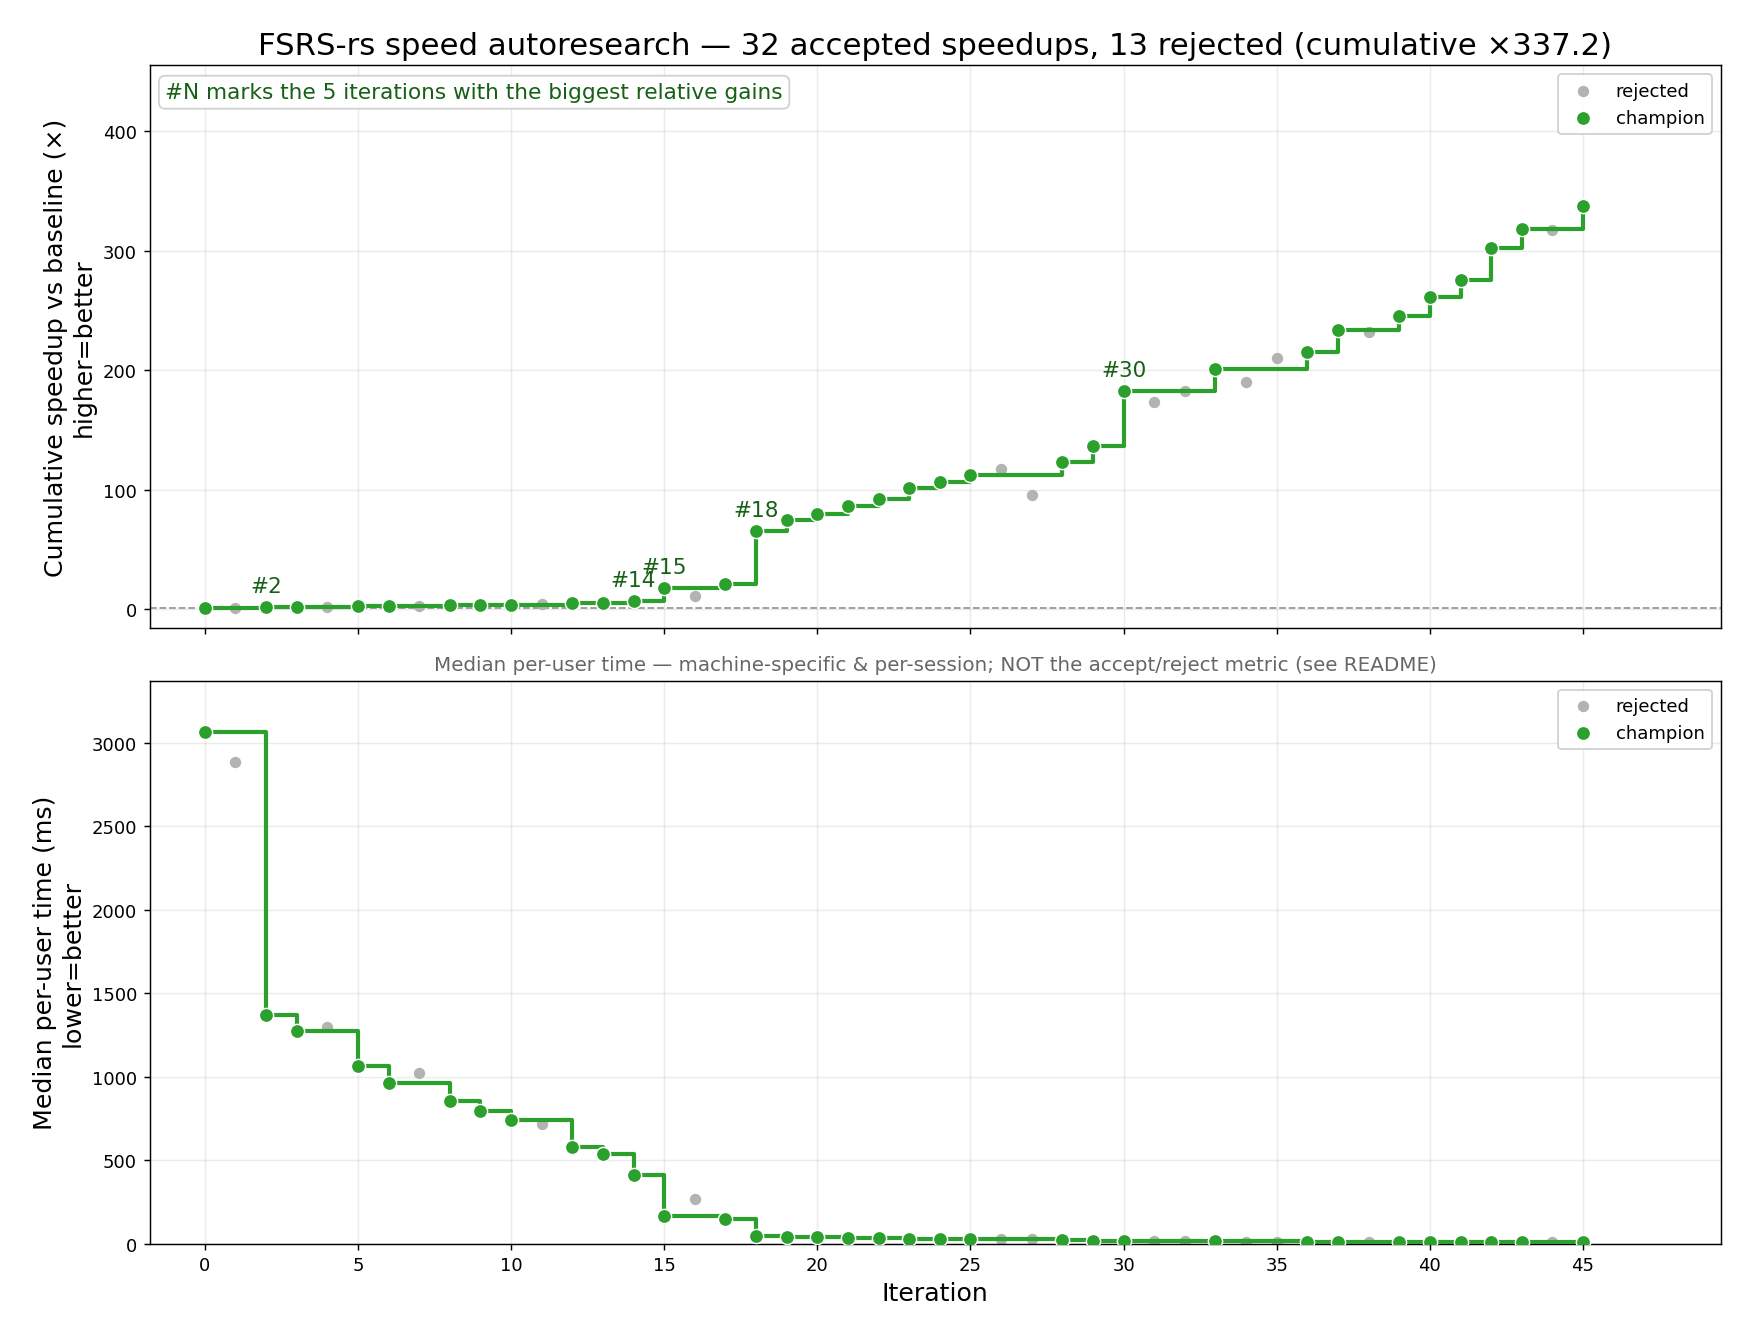
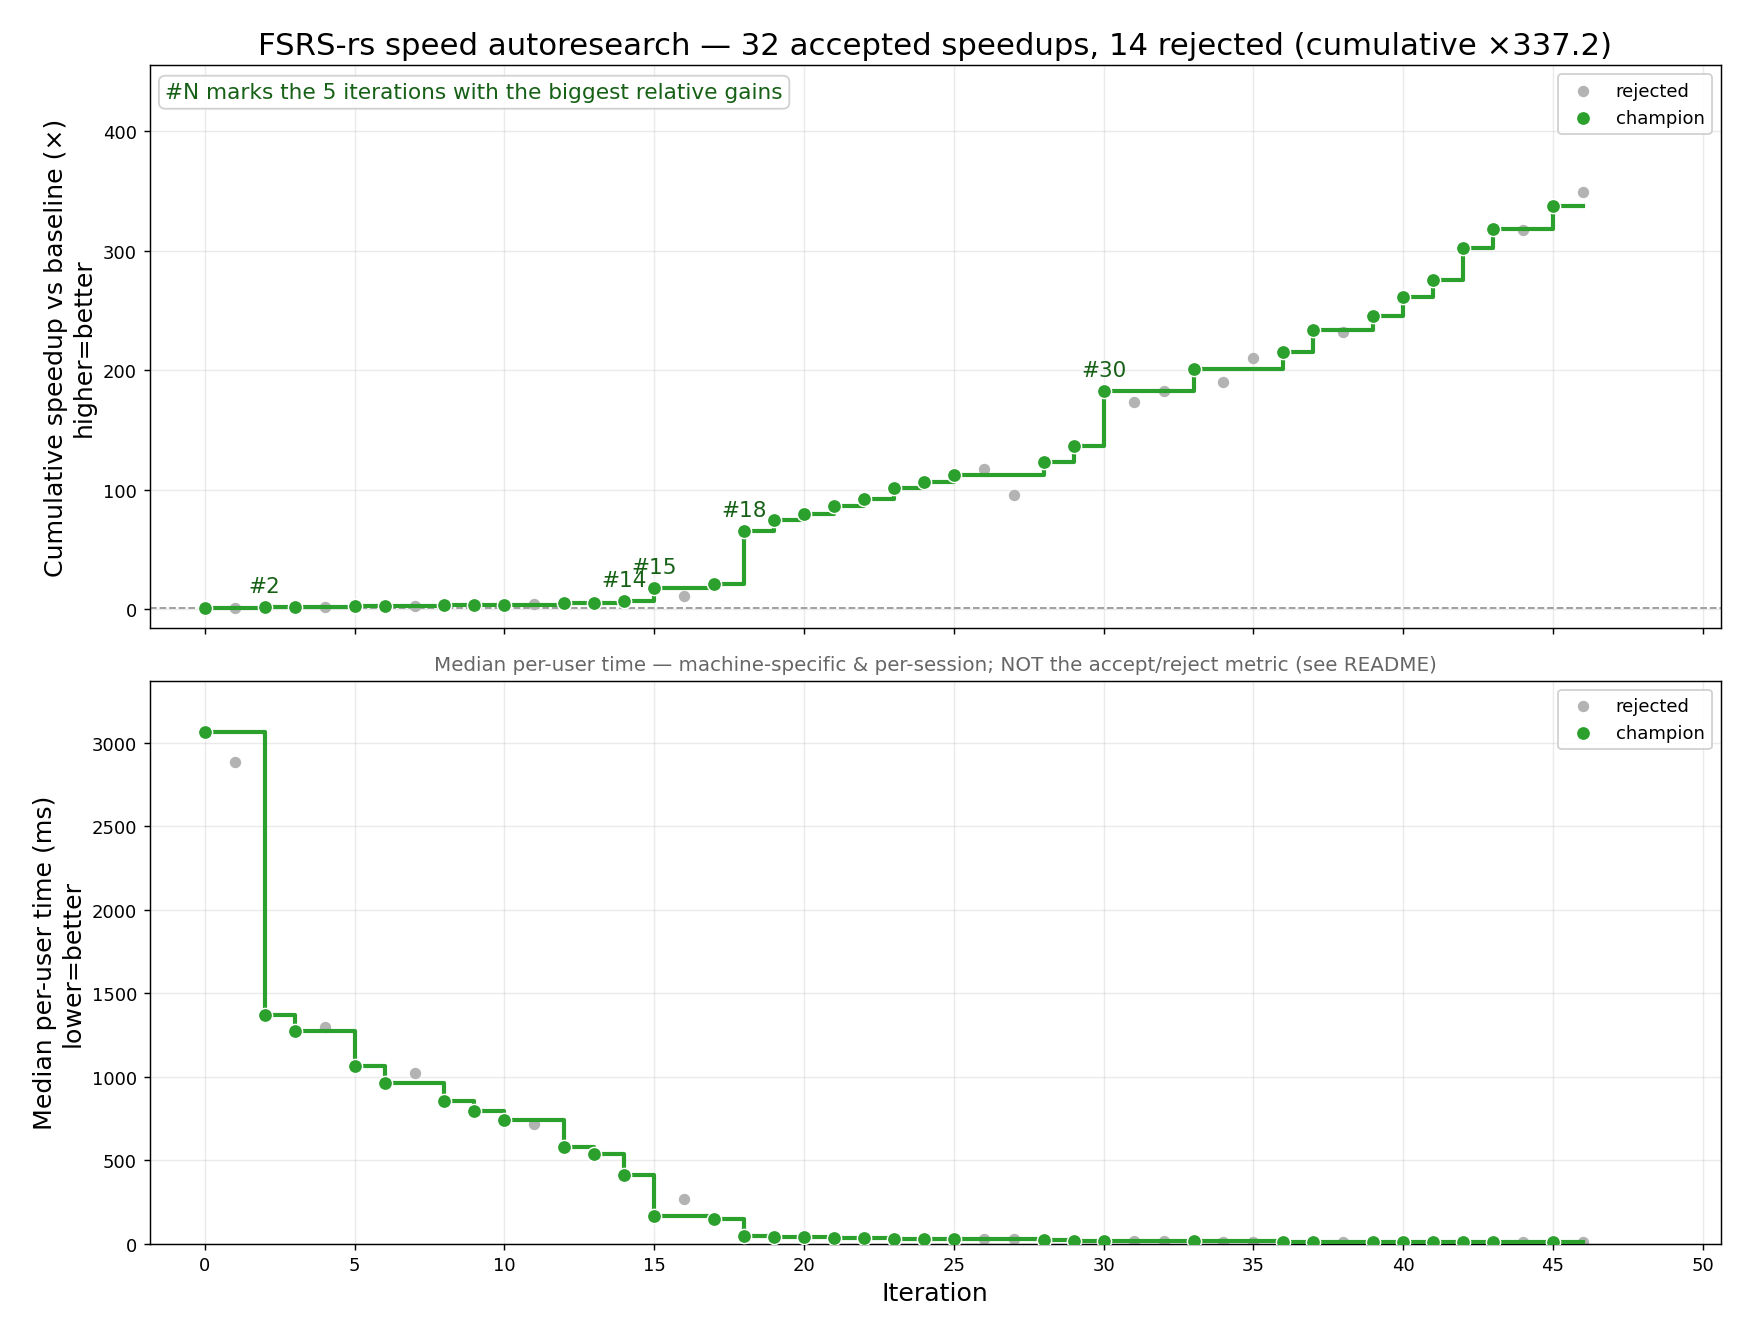
iter46 REJECTED (x1.035, kept for stacking): cache cheap forward values for the backward; backward ordered so values die early
Bit-for-bit (0/50). n=1 ~+3.6% vs iter45 but paired median-of-3 x1.035 < 1.05.
Curve8 caches m1/decay1/factor1/b1; Stab8 caches he/em1/abc/base (partial
products of sinc); curve8_bwd_acc forms the input-state adjoint sums as soon
as the curve terms are known. Kept in the tree to stack with the next change.

diff --git a/fsrs-rs/src/analytic.rs b/fsrs-rs/src/analytic.rs
@@ -688,6 +688,10 @@ struct Curve8 {
     q1: f32x8,
     e1: f32x8,
     p35: f32x8,
+    m1: f32x8,
+    decay1: f32x8,
+    factor1: f32x8,
+    b1: f32x8,
     b2: f32x8,
     r2: f32x8,
     sig: f32x8,
@@ -732,14 +736,18 @@ fn curve8_fwd_into<const FAST: bool>(
     let p35 = exp2_8_in_range::<FAST>((sp(33) - k(0.3)) * ln_sf); // ln_sf, ln_s are log2
     c.p35 = p35;
     let m1 = sp(23) * p35;
+    c.m1 = m1;
     let dm1 = clamp8(m1, 0.01, 0.95);
     let decay1 = k(0.0) - dm1;
+    c.decay1 = decay1;
     let q1 = k(wc.ln_w27) / decay1;
     c.q1 = q1;
     let e1 = exp8_in_range::<FAST>(q1.fast_min(k(60.0)));
     c.e1 = e1;
     let factor1 = e1 - k(1.0);
+    c.factor1 = factor1;
     let b1 = a * factor1 + k(1.0);
+    c.b1 = b1;
     let ln_b1 = log2_8(b1);
     c.ln_b1 = ln_b1;
     let r1 = exp2_8_in_range::<FAST>(decay1 * ln_b1);
@@ -781,14 +789,23 @@ fn curve8_bwd(
     w: &[f32], c: &Curve8, s: f32x8, sf: f32x8, d: f32x8, g_out: f32x8, g_r1_extra: f32x8,
     gw: &mut [f32x8; 34], wc: &WConsts,
 ) -> (f32x8, f32x8, f32x8) {
+    let z = f32x8::splat(0.0);
+    curve8_bwd_acc::<false>(w, c, s, sf, d, g_out, g_r1_extra, gw, wc, (z, z, z))
+}
+
+/// curve8_bwd; with ACC, returns (acc.0 + g_s, acc.1 + g_sf, acc.2 + g_d) instead, each sum formed
+/// as soon as its curve term is known. The code is ordered so values die early: the kernel's basic
+/// blocks are far longer than LLVM's scheduling window, so the source order decides how many
+/// values are live (and spilled) at once.
+#[allow(clippy::too_many_arguments)]
+#[inline(always)]
+fn curve8_bwd_acc<const ACC: bool>(
+    w: &[f32], c: &Curve8, s: f32x8, sf: f32x8, d: f32x8, g_out: f32x8, g_r1_extra: f32x8,
+    gw: &mut [f32x8; 34], wc: &WConsts, acc: (f32x8, f32x8, f32x8),
+) -> (f32x8, f32x8, f32x8) {
     let sp = |i: usize| f32x8::splat(w[i]);
     let k = f32x8::splat;
     let z = k(0.0);
-    // Cheap forward values recomputed with curve8_fwd's exact ops (smaller per-step cache).
-    let m1 = sp(23) * c.p35;
-    let decay1 = k(0.0) - clamp8(m1, 0.01, 0.95);
-    let factor1 = c.e1 - k(1.0);
-    let b1 = c.a * factor1 + k(1.0);
     let g_ret = g_out * k(1.0 - 2e-5);
     // ret = r1*(1-sig) + r2*sig. r1 also feeds the short-trace stability update (reads r1, not
     // mixed R) -> g_r1_extra.
@@ -802,35 +819,43 @@ fn curve8_bwd(
     gw[30] += g_z * c.ln_s;
     gw[31] += g_z * (d - k(5.0));
     let mut g_d = g_z * (sp(31) - k(0.5));
+    let gz30 = g_z * sp(30); // the ln(s) and ln(sf) terms of g_s / g_sf (below)
+    let gz29 = g_z * sp(29);
     // r2 = b2^decay2, b2 = q2 + 1 with q2 = (t/s)*factor2*ex34 (ex34 = exp((d-5)*(d_decay-0.3)),
     // factor2 = p28 - 1, p28 = base2[w26]^(1/decay2), decay2 = -clamp(w24)). q2 is a product, so
     // the adjoints of ln(t/s), ln(ex34) and ln(factor2) are all x2 = g_b2*q2.
     let v2 = g_r2 * c.r2; // adjoint of ln(r2) = decay2 * ln(b2)
+    // w26 and w24 enter r2 only through weight-only factors: slot 26 holds sum(x2), slot 28 the
+    // direct decay2 term; finish_gw forms gw[26] and gw[24] from them.
+    gw[28] += v2 * c.ln_b2;
     let x2 = v2 * wc.decay2 / c.b2 * c.q2;
     g_d += x2 * (sp(32) - k(0.3));
     gw[32] += x2 * (d - k(5.0));
-    // w26 and w24 enter r2 only through weight-only factors: slot 26 holds sum(x2), slot 28 the
-    // direct decay2 term; finish_gw forms gw[26] and gw[24] from them.
     gw[26] += x2;
-    gw[28] += v2 * c.ln_b2;
+    // d/ds of every ln(s) term, over ONE division.
+    let g_s = (gz30 - x2) / s;
+    let g_s = if ACC { acc.0 + g_s } else { g_s };
+    let g_d = if ACC { acc.2 + g_d } else { g_d };
     // r1 = b1^decay1, b1 = a*factor1 + 1, a = t/sf, factor1 = e1 - 1, e1 = exp(min(q1, 60)),
     // q1 = ln(base1[w25]) / decay1, decay1 = -clamp(w23 * p35), p35 = sf^(s_decay1[w33]-0.3).
+    let decay1 = c.decay1;
     let v1 = g_r1 * c.r1; // adjoint of ln(r1) = decay1 * ln(b1)
     let mut g_decay1 = v1 * c.ln_b1 * k(LN2); // ln(b1) = log2(b1) * ln2
-    let g_b1_a = v1 * decay1 / b1 * c.a; // adjoint of b1, times a
-    let g_a_a = g_b1_a * factor1; // adjoint of ln(a)
+    let g_b1_a = v1 * decay1 / c.b1 * c.a; // adjoint of b1, times a
+    let g_a_a = g_b1_a * c.factor1; // adjoint of ln(a)
     let g_q1 = c.q1.cmp_lt(k(60.0)).blend(g_b1_a * c.e1, z);
     let g_lw27 = g_q1 / decay1;
     g_decay1 -= g_lw27 * c.q1; // d(q1)/d(decay1) = -q1/decay1
     gw[25] += g_lw27; // ln_base1 = ln(w[25]); finish_gw applies 1/w25
+    let m1 = c.m1;
     let g_m1 = (m1.cmp_gt(k(0.01)) & m1.cmp_lt(k(0.95))).blend(z - g_decay1, z);
     let u = g_m1 * c.p35;
     gw[23] += u;
     let y = u * sp(23); // adjoint of ln(p35)
     gw[33] += y * c.ln_sf;
-    // d/ds and d/dsf of every ln(s)/ln(sf) term, over ONE division each.
-    let g_s = (g_z * sp(30) - x2) / s;
-    let g_sf = (g_z * sp(29) + y * (sp(33) - k(0.3)) - g_a_a) / sf;
+    // d/dsf of every ln(sf) term, over ONE division.
+    let g_sf = (gz29 + y * (sp(33) - k(0.3)) - g_a_a) / sf;
+    let g_sf = if ACC { acc.1 + g_sf } else { g_sf };
     (g_s, g_sf, g_d)
 }
 
@@ -851,6 +876,11 @@ struct Stab8 {
     sinc: f32x8,
     cc: f32x8,
     expr: f32x8,
+    /// hard_easy8, expr - 1, aa * bb * cc and aa * bb * cc * (expr - 1): partial products of sinc.
+    he: f32x8,
+    em1: f32x8,
+    abc: f32x8,
+    base: f32x8,
     pr: f32x8,
     qbase: f32x8,
     ln_ls1: f32x8,
@@ -871,13 +901,19 @@ fn stab8_fwd_into<const FAST: bool>(
     let k = f32x8::splat;
     let one = k(1.0);
     let he = hard_easy8(w, rating, start);
+    c.he = he;
     let bb = k(11.0) - last_d;
     let cc = exp2_8_in_range::<FAST>(k(-w[start + 1]) * ln_ls);
     c.cc = cc;
     let expr = exp2_8_in_range::<FAST>((one - r) * k(wc.l2e[start + 2]));
     c.expr = expr;
-    let aa8 = k(aa);
-    let sinc = aa8 * bb * cc * (expr - one) * he + one;
+    let em1 = expr - one;
+    c.em1 = em1;
+    let abc = k(aa) * bb * cc;
+    c.abc = abc;
+    let base = abc * em1;
+    c.base = base;
+    let sinc = base * he + one; // = aa * bb * cc * (expr - 1) * he + 1
     c.sinc = sinc;
     let ls_sinc = last_s * sinc;
     // sinc >= 1, so ls_sinc >= last_s >= pls = min(last_s, nsf_fail): on a success lane the new
@@ -911,17 +947,16 @@ fn stab8_fwd_into<const FAST: bool>(
 #[allow(clippy::too_many_arguments)]
 #[inline(always)]
 fn stab8_bwd(
-    w: &[f32], c: &Stab8, last_s: f32x8, last_d: f32x8, r: f32x8, rating: f32x8, start: usize,
+    w: &[f32], c: &Stab8, last_s: f32x8, r: f32x8, rating: f32x8, start: usize,
     aa: f32, ln_ls: f32x8, g_out: f32x8, gw: &mut [f32x8; 34],
 ) -> (f32x8, f32x8, f32x8) {
     let sp = |i: usize| f32x8::splat(w[i]);
     let k = f32x8::splat;
     let one = k(1.0);
     let z = k(0.0);
-    // aa / hard / easy / ln_ls are recomputed or passed in (not cached): the same values stab8_fwd_into used.
+    // aa / ln_ls are passed in (not cached): the same values stab8_fwd_into used.
     let aa = k(aa);
-    let he = hard_easy8(w, rating, start);
-    let bb = k(11.0) - last_d;
+    let he = c.he;
     let gt1 = rating.cmp_gt(one);
     let g_nss = gt1.blend(g_out, z);
     // Without the post-lapse branch (see stab8_fwd_into) every success lane routes to ls_sinc, and the
@@ -943,9 +978,9 @@ fn stab8_bwd(
     g_last_s += g_ls_sinc * c.sinc;
     let g_sinc = g_ls_sinc * last_s;
     // sinc = aa*bb*cc*(expr-1)*hard*easy + 1
-    let em1 = c.expr - one;
+    let em1 = c.em1;
     let g_prod = g_sinc;
-    let base = aa * bb * c.cc * em1;
+    let base = c.base;
     // d(prod)/d(hard_penalty) on rating-2 lanes and d(prod)/d(easy_bonus) on rating-4 lanes are
     // both `base` (the other factor is exactly 1 there).
     let g_base = g_prod * base;
@@ -954,7 +989,7 @@ fn stab8_bwd(
     gw[start] += p_ln; // aa = exp(w[start]-1.5)
     let g_he = g_prod * he;
     let g_bb = g_he * (aa * c.cc * em1);
-    let g_em1 = g_he * (aa * bb * c.cc);
+    let g_em1 = g_he * c.abc;
     gw[start + 6] += rating.cmp_eq(k(2.0)).blend(g_base, z); // hard_penalty
     gw[start + 7] += rating.cmp_eq(k(4.0)).blend(g_base, z); // easy_bonus
     let g_last_d = g_bb * (z - one); // bb = 11 - last_d (the ONLY D-dependence of stab now)
@@ -1328,24 +1363,25 @@ fn step8_bwd<const PAD: bool>(
             // LONG stab reads mixed retention curve.out; SHORT stab reads r1=curve.r1 (start 15).
             let (g_ls_a, g_ld_a, g_r_long) =
                 stab8_bwd(
-                    w, slow, last_s, last_d, curve.out, *rating, 7, wc.aa7, curve.ln_s,
+                    w, slow, last_s, curve.out, *rating, 7, wc.aa7, curve.ln_s,
                     g_ns2 + g_slow_from_relearn, gw,
                 );
+            let g_r_curve = g_r_long + g_r_loss;
             let (g_lsf_b, g_ld_b, g_r1_short) =
                 stab8_bwd(
-                    w, fast, last_sf, last_d, curve.r1, *rating, 15, wc.aa16, curve.ln_sf, g_fast_out,
+                    w, fast, last_sf, curve.r1, *rating, 15, wc.aa16, curve.ln_sf, g_fast_out,
                     gw,
                 );
+            let g_ld_ab = g_ld_a + g_ld_b;
             let (g_ld_c, g_r_nextd) =
                 next_d8_bwd(w, *nd_out_pre, *nd_delta_d, last_d, *rating, curve.out, g_nd2, gw, wc.exp3w5, *lapse);
             // curve.out adjoint = long-stab r + windowed loss adjoint + next_d r; curve.r1 = short-stab r.
-            let (g_ls_d, g_lsf_d, g_ld_d) = curve8_bwd(
-                w, curve, last_s, last_sf, last_d, g_r_long + g_r_loss + g_r_nextd, g_r1_short,
-                gw, wc,
+            // The input-state adjoints: g_last_s = g_ls_a + g_ls_d, g_last_sf = g_lsf_b + g_lsf_d and
+            // g_last_d = ((g_ld_a + g_ld_b) + g_ld_c) + g_ld_d, summed inside curve8_bwd_acc.
+            let (mut g_last_s, mut g_last_sf, mut g_last_d) = curve8_bwd_acc::<true>(
+                w, curve, last_s, last_sf, last_d, g_r_curve + g_r_nextd, g_r1_short,
+                gw, wc, (g_ls_a, g_lsf_b, g_ld_ab + g_ld_c),
             );
-            let mut g_last_s = g_ls_a + g_ls_d;
-            let mut g_last_sf = g_lsf_b + g_lsf_d;
-            let mut g_last_d = g_ld_a + g_ld_b + g_ld_c + g_ld_d;
             if PAD {
                 g_last_s += m0.blend(g_ns3, z);
                 g_last_sf += m0.blend(g_nsf3, z);

diff --git a/result/history.md b/result/history.md
@@ -50,6 +50,7 @@ Accept metric: **median per-user speed_ratio ≥ 1.05** (constraint 12) AND **sp
 | 43 | 8 | 7 | 1.053 | 10972 | 11066 | 1.009 | 1.022 | ✓ | accepted | Base-2 exp/log in the recurrence; lapse-only terms skipped; signed weights; no burn Model |
 | 44 | 7 | 7 | 0.998 | 11066 | 11072 | 1.000 | 1.001 | ✓ | rejected | Fold aa, w23, factor2 into their exponentials (fewer multiplies per step) |
 | 45 | 8 | 7 | 1.060 | 11066 | 11169 | 1.009 | 1.024 | ✓ | accepted | Forward writes cache fields straight into reused slots; items freed in touched blocks |
+| 46 | 8 | 8 | 1.035 | 11169 | 11213 | 1.004 | 1.010 | ✓ | rejected | Cache cheap forward values for the backward; backward ordered so values die early |
 
 **Cumulative speed_ratio (product of accepted): ×337.169** — upward-biased (winner's curse); anchor periodically vs iter-0 baseline.
 
